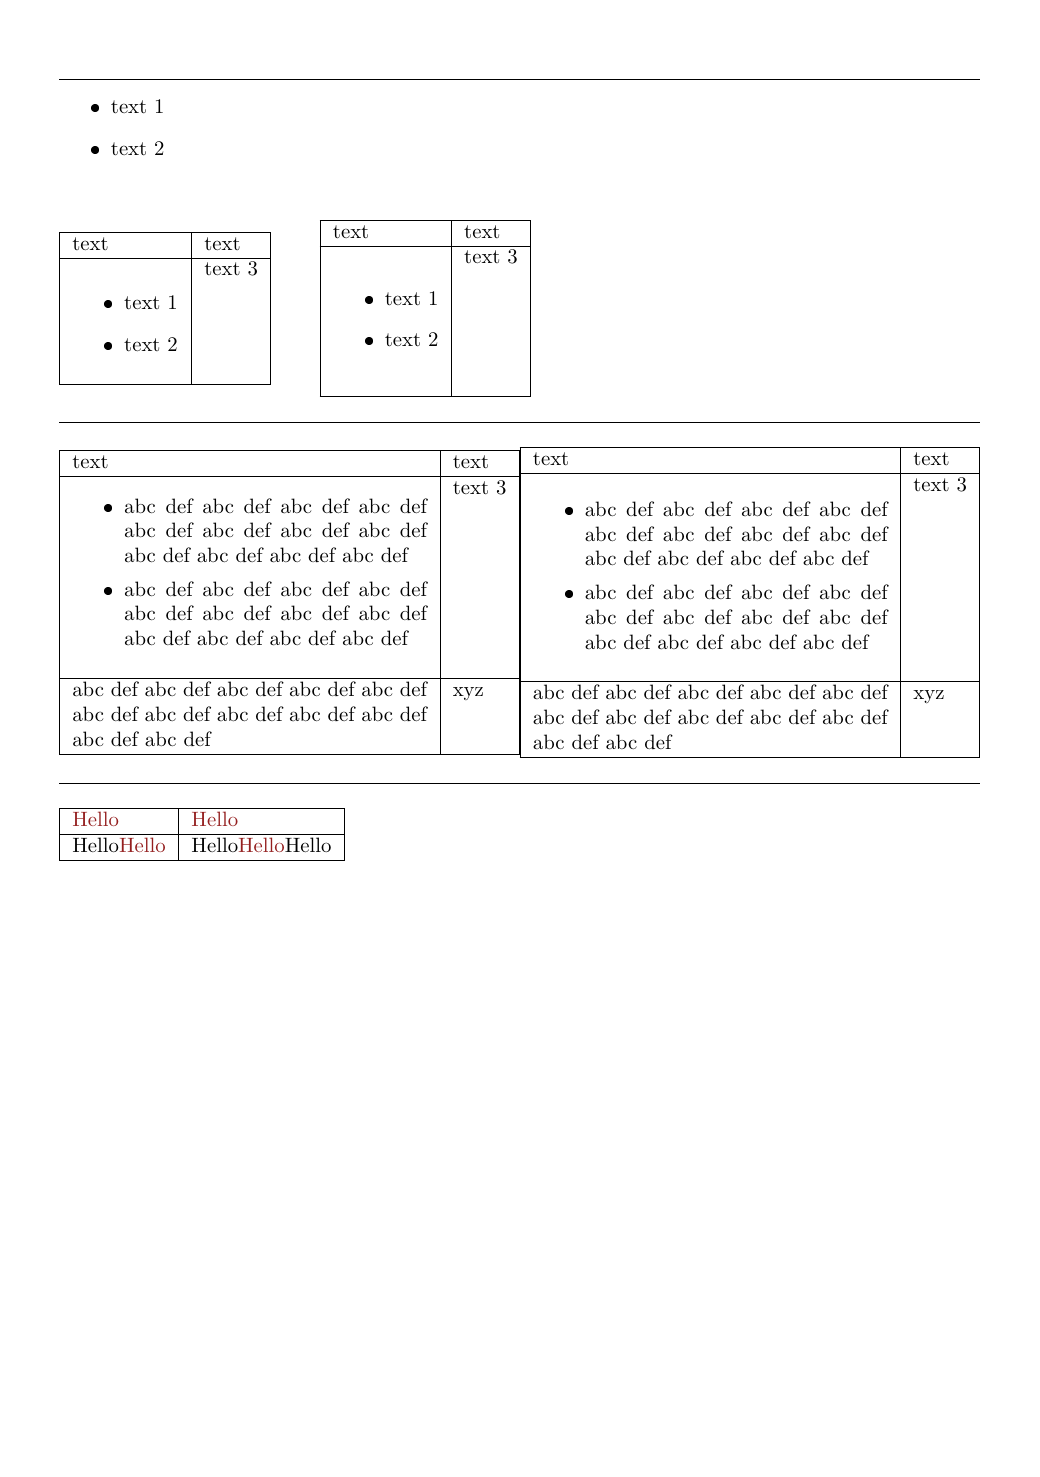
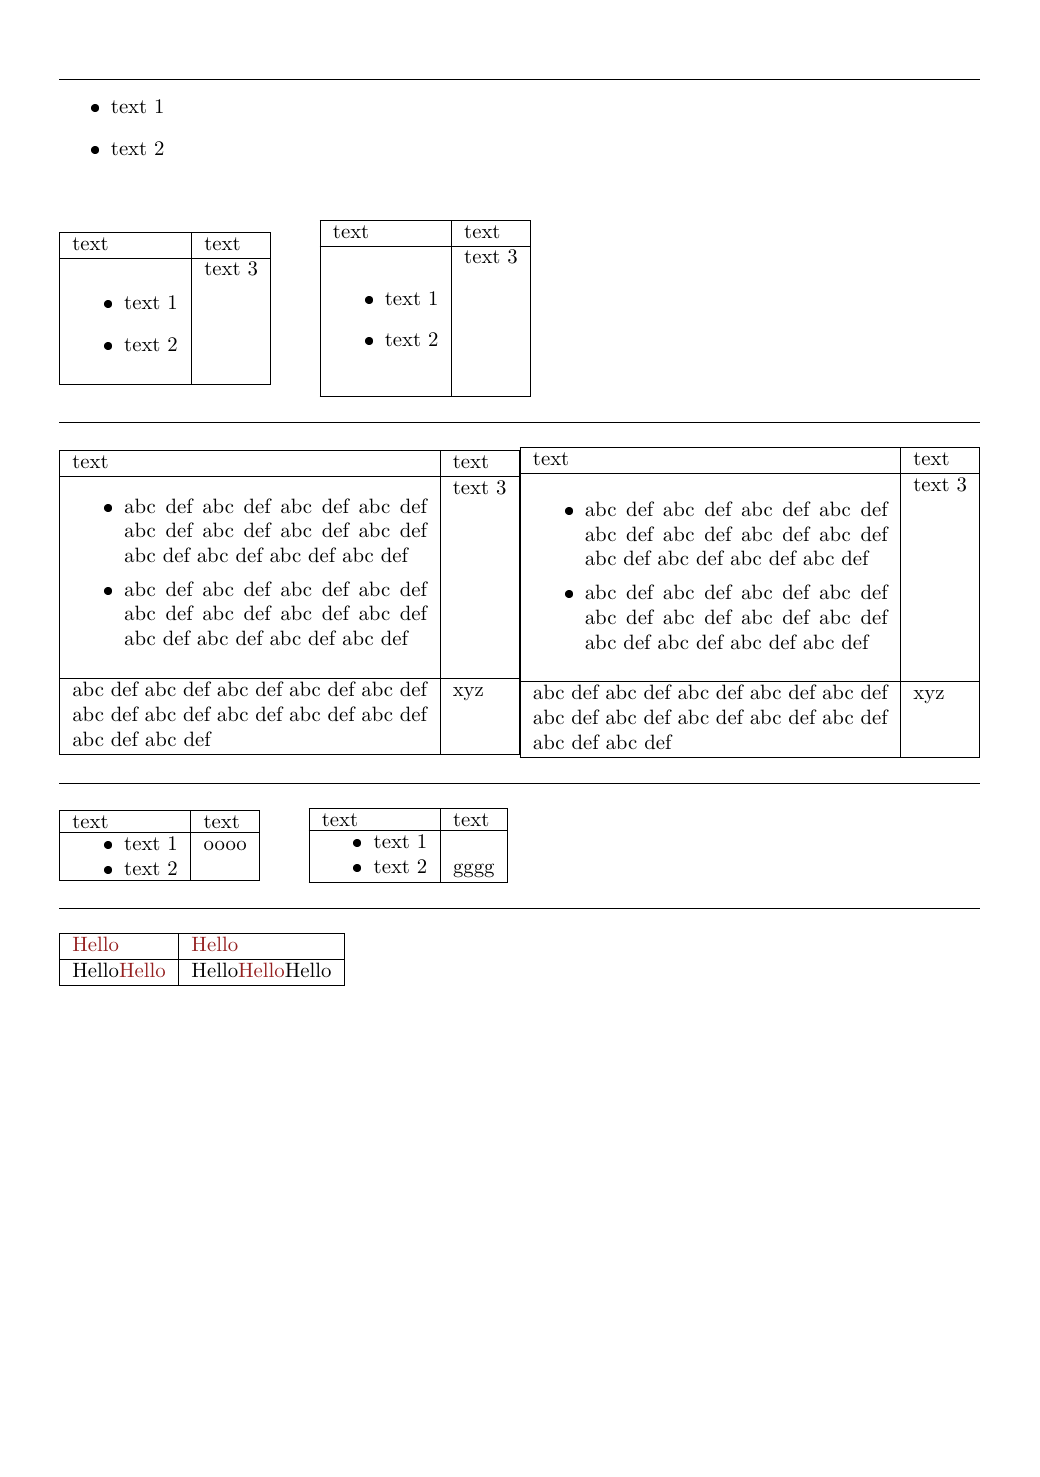
update test files for issue #99

Changed region(s): [[0.0615, 0.5295, 0.4923, 0.5917], [0.1846, 0.6229, 0.3077, 0.6852], [0.0615, 0.6229, 0.1538, 0.6852]]

diff --git a/testfiles/table-011.tex b/testfiles/table-011.tex
@@ -103,6 +103,34 @@
 
 \bigskip\hrule\bigskip
 
+% See issue #99
+\BEGINTEST{testing itemize environment with measure=vbox and stretch=-1}
+\SetTblrInner{rowsep=2pt}
+\begin{tblr}{
+  colspec = {ll}, hlines, vlines,
+  measure = vbox, stretch=-1,
+}
+  text & text \\
+  \begin{itemize}[nosep]
+    \item text 1
+    \item text 2
+  \end{itemize} & oooo \\
+\end{tblr}
+\qquad
+\begin{tblr}{
+  colspec = {Q[l,b]Q[l,b]}, hlines, vlines,
+  measure = vbox, stretch=-1,
+}
+  text & text \\
+  \begin{itemize}[nosep]
+    \item text 1
+    \item text 2
+  \end{itemize} & gggg \\
+\end{tblr}
+\ENDTEST
+
+\bigskip\hrule\bigskip
+
 % See issue #36
 \BEGINTEST{testing \color command with measure=vbox}
 \begin{tblr}{
